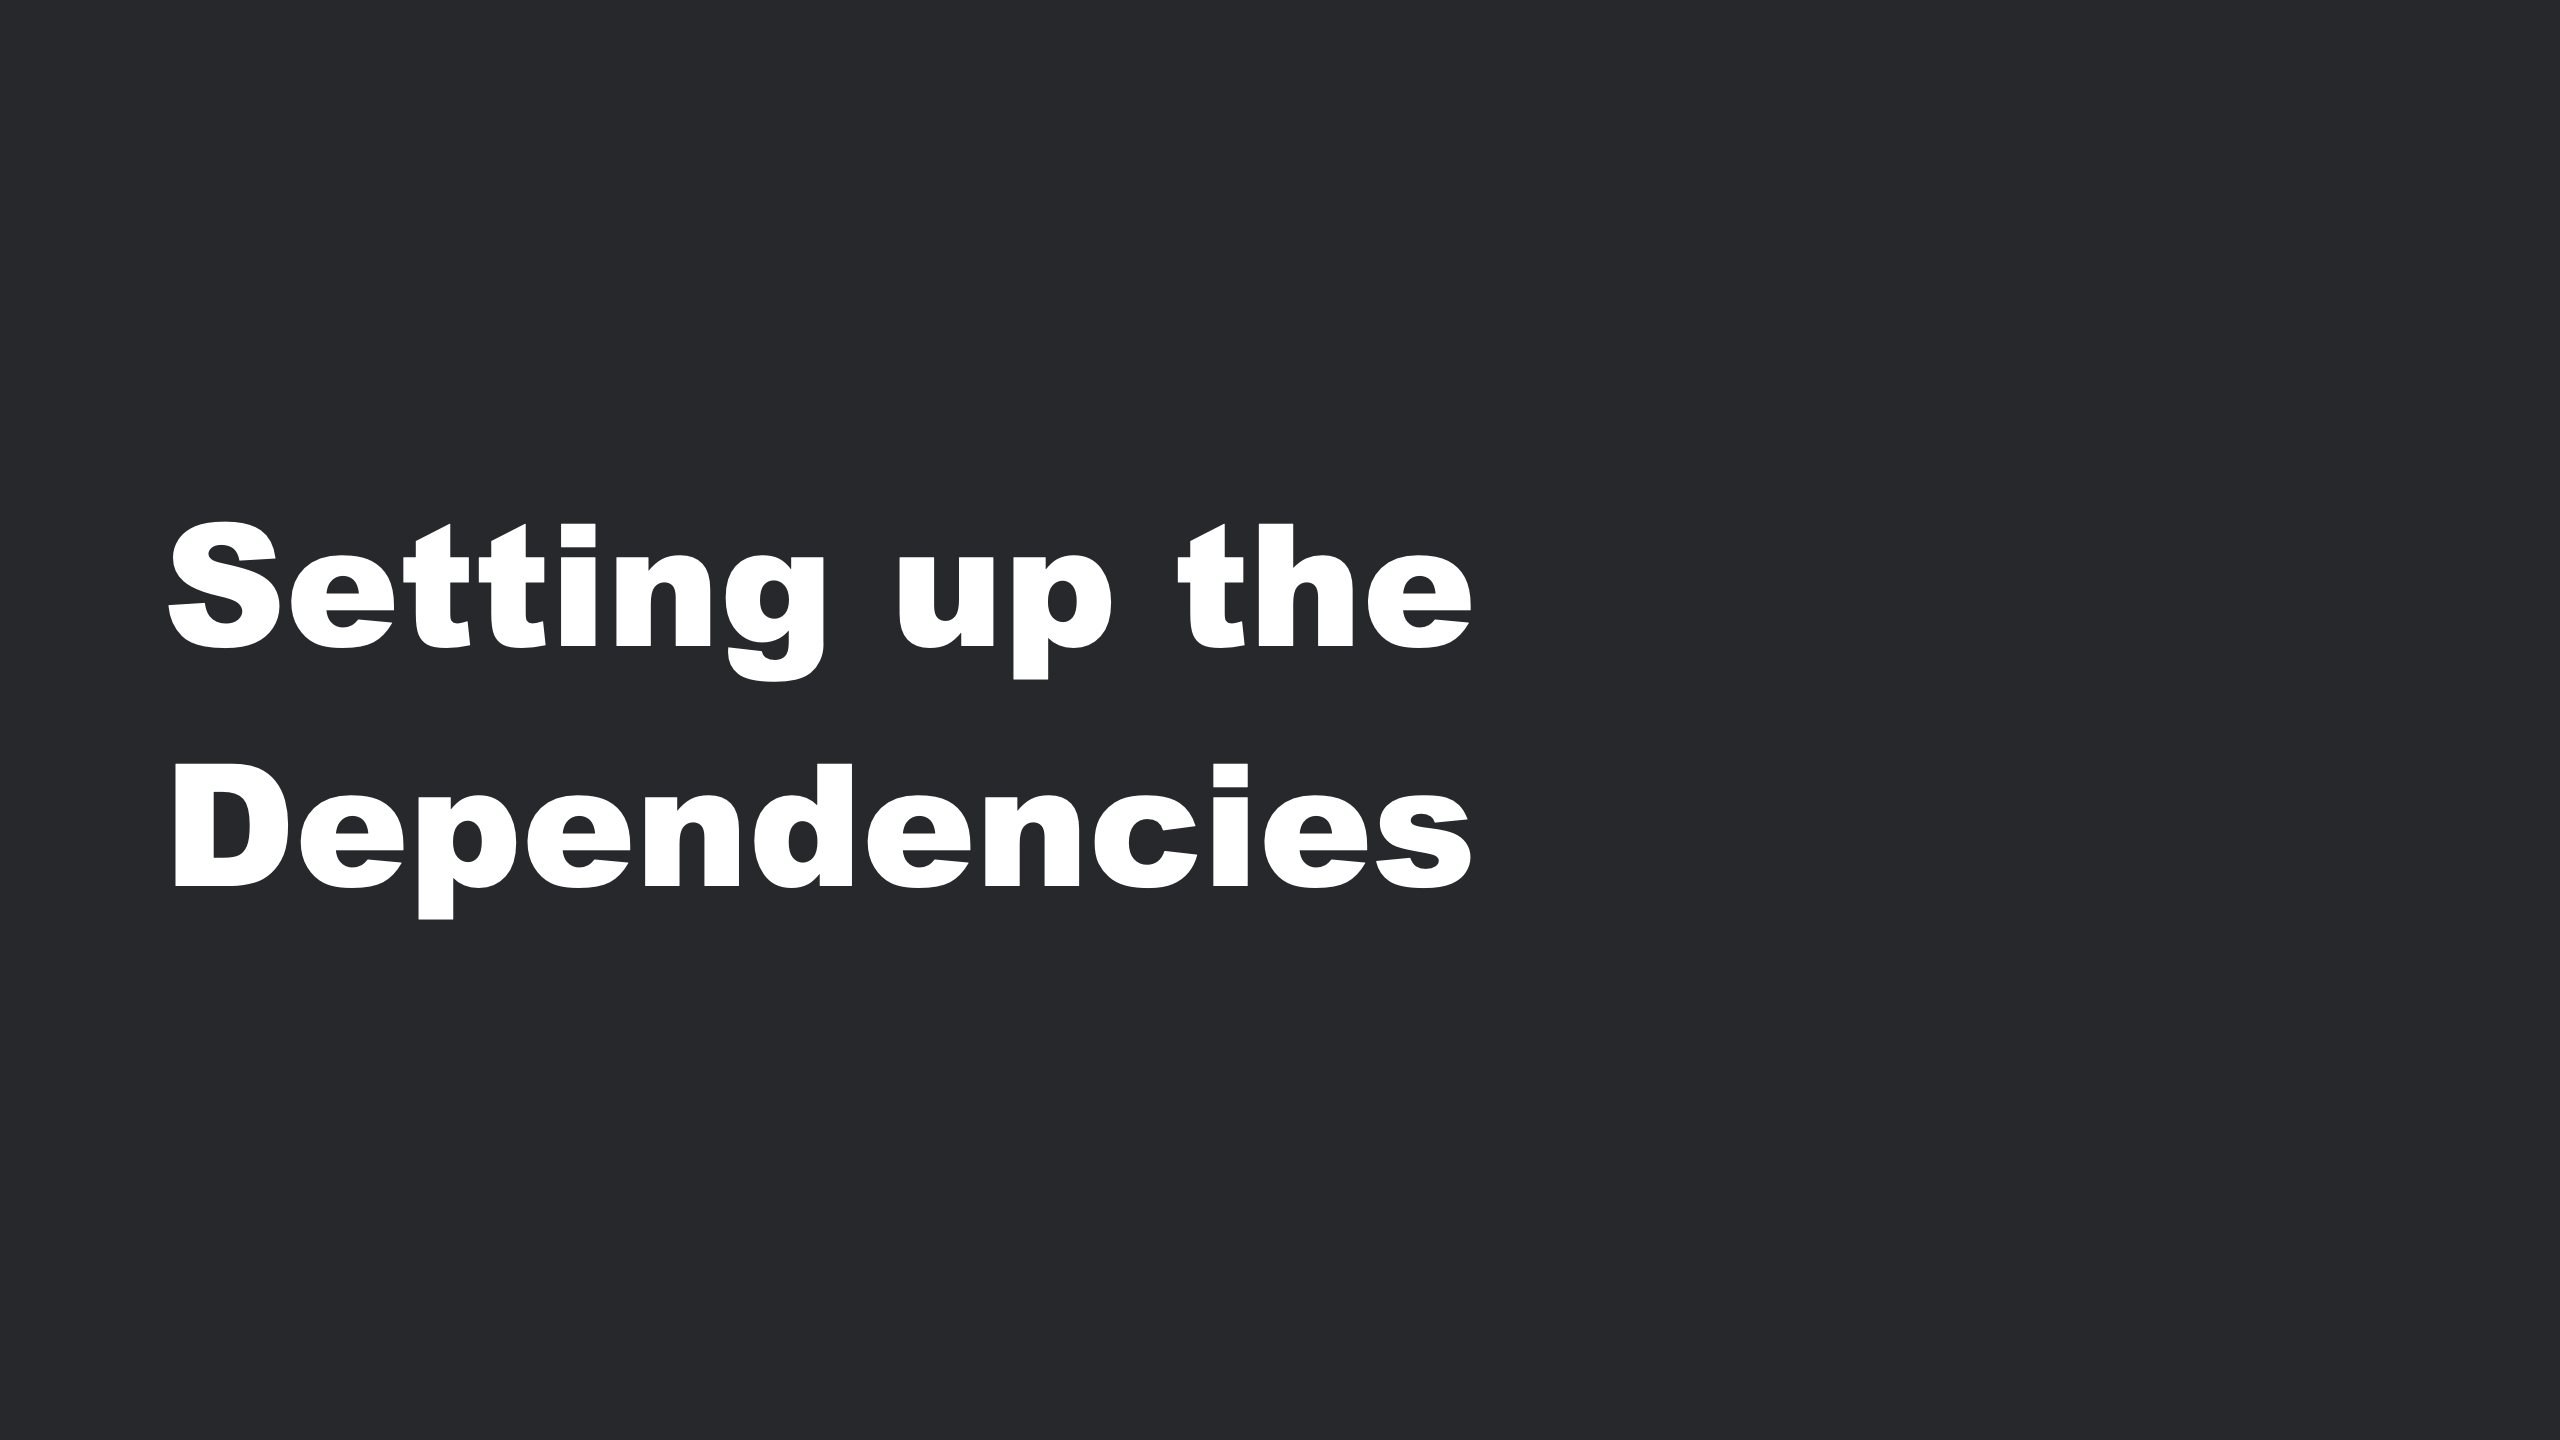
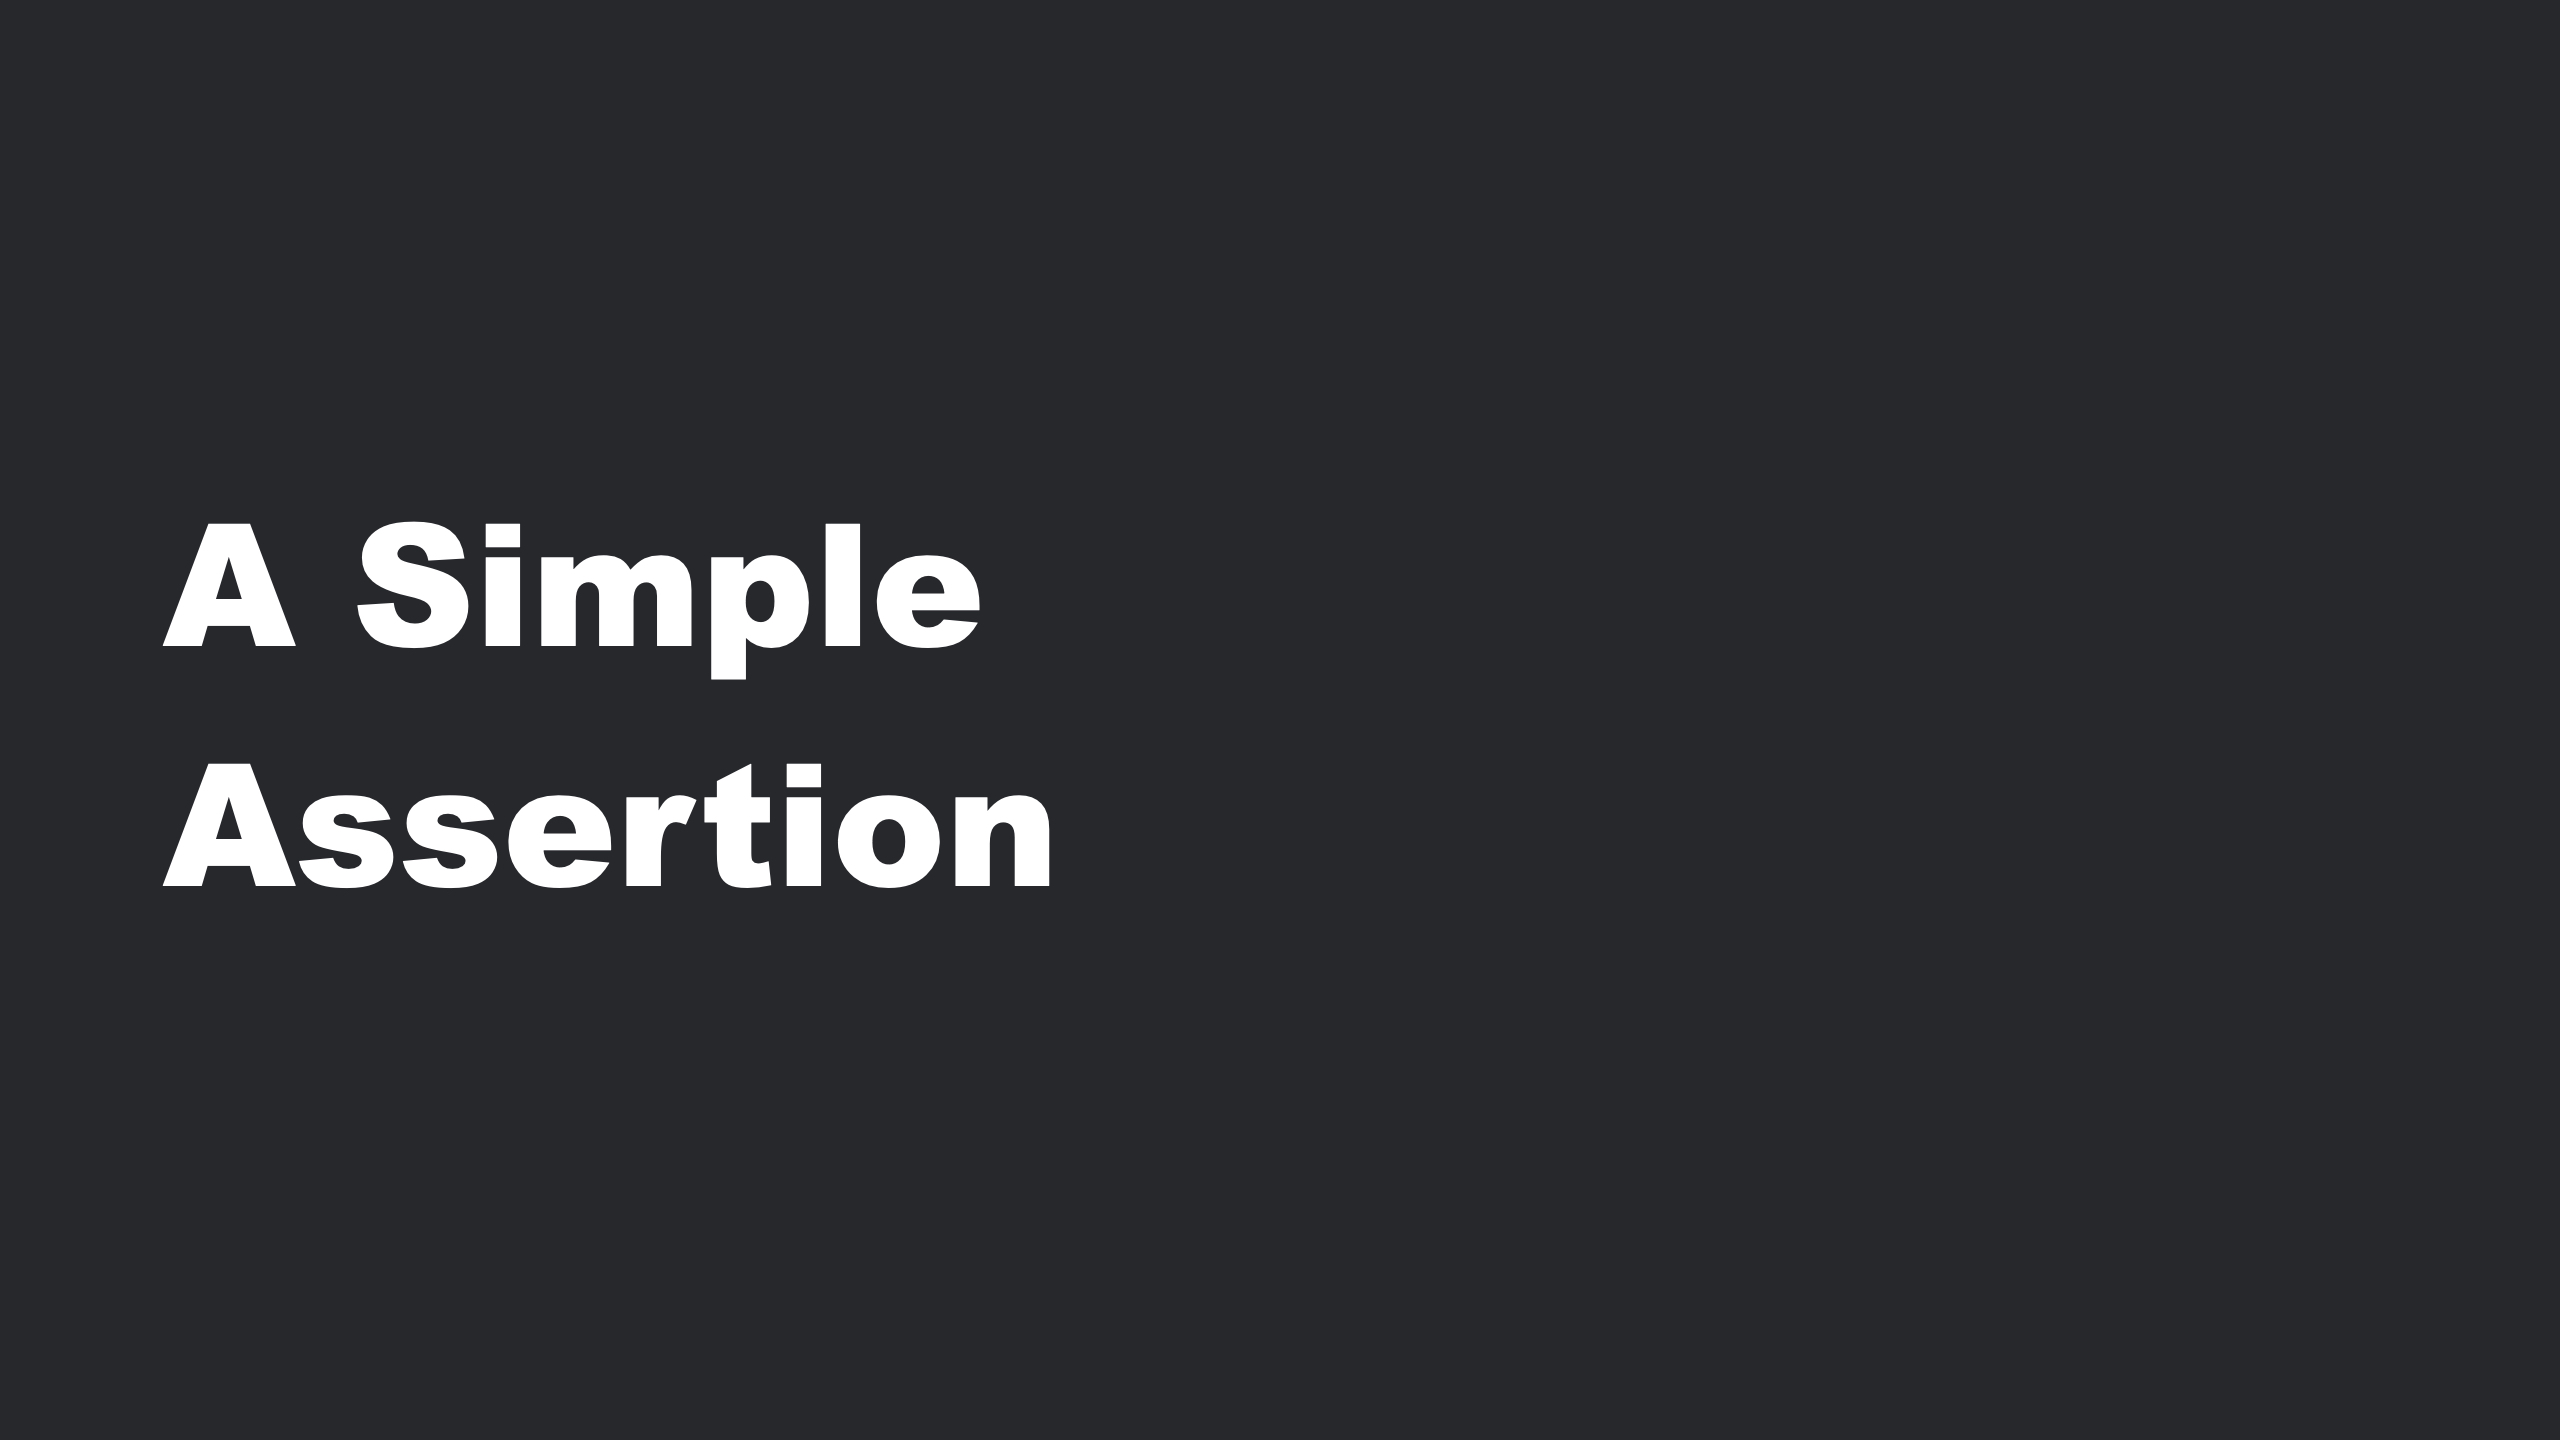
[EVAN-9207] Starting on the second blog post. Given When Then added.

Changed region(s): [[0.0625, 0.3438, 0.5938, 0.5], [0.0625, 0.5312, 0.5938, 0.6562]]

diff --git a/sites/intellij-guide/contents/tutorials/writing-tests-with-spock/given-when-then/index.md b/sites/intellij-guide/contents/tutorials/writing-tests-with-spock/given-when-then/index.md
@@ -1,0 +1,79 @@
+---
+type: TutorialStep
+date: 2021-05-20
+title: Given, When and Then
+technologies: [java, groovy]
+topics: [testing]
+author: tg
+subtitle: See how Spock tests are usually structured.
+thumbnail: ./thumbnail.png
+longVideo:
+  poster: ./poster_long.png
+  url: https://youtu.be/i5Qu3qYOfsM?start=386
+---
+
+One of the most powerful features of Spock is how descriptive it is. It's not just for testing code, it's for describing and documenting expected behaviour.
+
+In our last test, we used the `expect` label to indicate a simple expectation. Spock supports a number of different labels for test [blocks](http://spockframework.org/spock/docs/1.3/all_in_one.html#_blocks). My personal favourite set of labels is `given`, `when`, `then`. Let's create a new test method:
+
+```groovy
+def "should demonstrate given-when-then"() {
+    given:
+    def polygon = new Polygon(4)
+
+    when:
+    int sides = polygon.numberOfSides
+
+    then:
+    sides == 4
+}
+```
+
+You'll also need to create a Java [Polygon](https://github.com/trishagee/spock-testing-demo/blob/main/src/main/java/com/mechanitis/demo/spock/Polygon.java) class in `src/main/java`. We can use Spock to test Java or Groovy code.
+
+```java
+public class Polygon {
+    private final int numberOfSides;
+
+    public Polygon(int numberOfSides) {
+        this.numberOfSides = numberOfSides;
+    }
+}
+```
+
+Back in the test, you can see the `given` label is used to indicate that this part of the method is setting up the required conditions. This test needs an instance of `Polygon` with four sides.
+
+```groovy
+given:
+def polygon = new Polygon(4)
+```
+
+Next, we say `when`. This is the thing we're actually testing, the behaviour we're trying to check. This test makes sure the `numberOfSides` has been correctly set and that we can get it from the class.
+
+```groovy
+when:
+int sides = polygon.numberOfSides
+```
+
+Finally, we say `then`. This section checks all the conditions we expect to have been met. This test checks that the number of sides is four, the original number of sides passed in to the constructor.
+
+```groovy
+then:
+sides == 4
+```
+
+You can read a given/when/then test like this:
+
+- _**given**_ that I have a Polygon with four sides,
+- _**when**_ we get the number of sides
+- _**then**_ that number of sides should be equal to four
+
+Run this test to see if it passes. You should get an output like:
+
+![](https://blog.jetbrains.com/wp-content/uploads/2021/01/10.png)
+
+Using these labels might look like it's doubling the number of lines of code for a test method, but remember that tests often have many more lines of code in them, and grouping them in this way helps describe what's happening.
+
+In this step, we covered some tips on writing tests using Spock. Now you know how to use labels to define the blocks of your tests
+
+

diff --git a/sites/intellij-guide/contents/tutorials/writing-tests-with-spock/index.md b/sites/intellij-guide/contents/tutorials/writing-tests-with-spock/index.md
@@ -11,4 +11,5 @@ tutorialItems:
   - /tutorials/writing-tests-with-spock/creating-a-spock-project/
   - /tutorials/writing-tests-with-spock/setting-up-the-dependencies/
   - /tutorials/writing-tests-with-spock/a-simple-assertion/
+  - /tutorials/writing-tests-with-spock/given-when-then/
 ---
